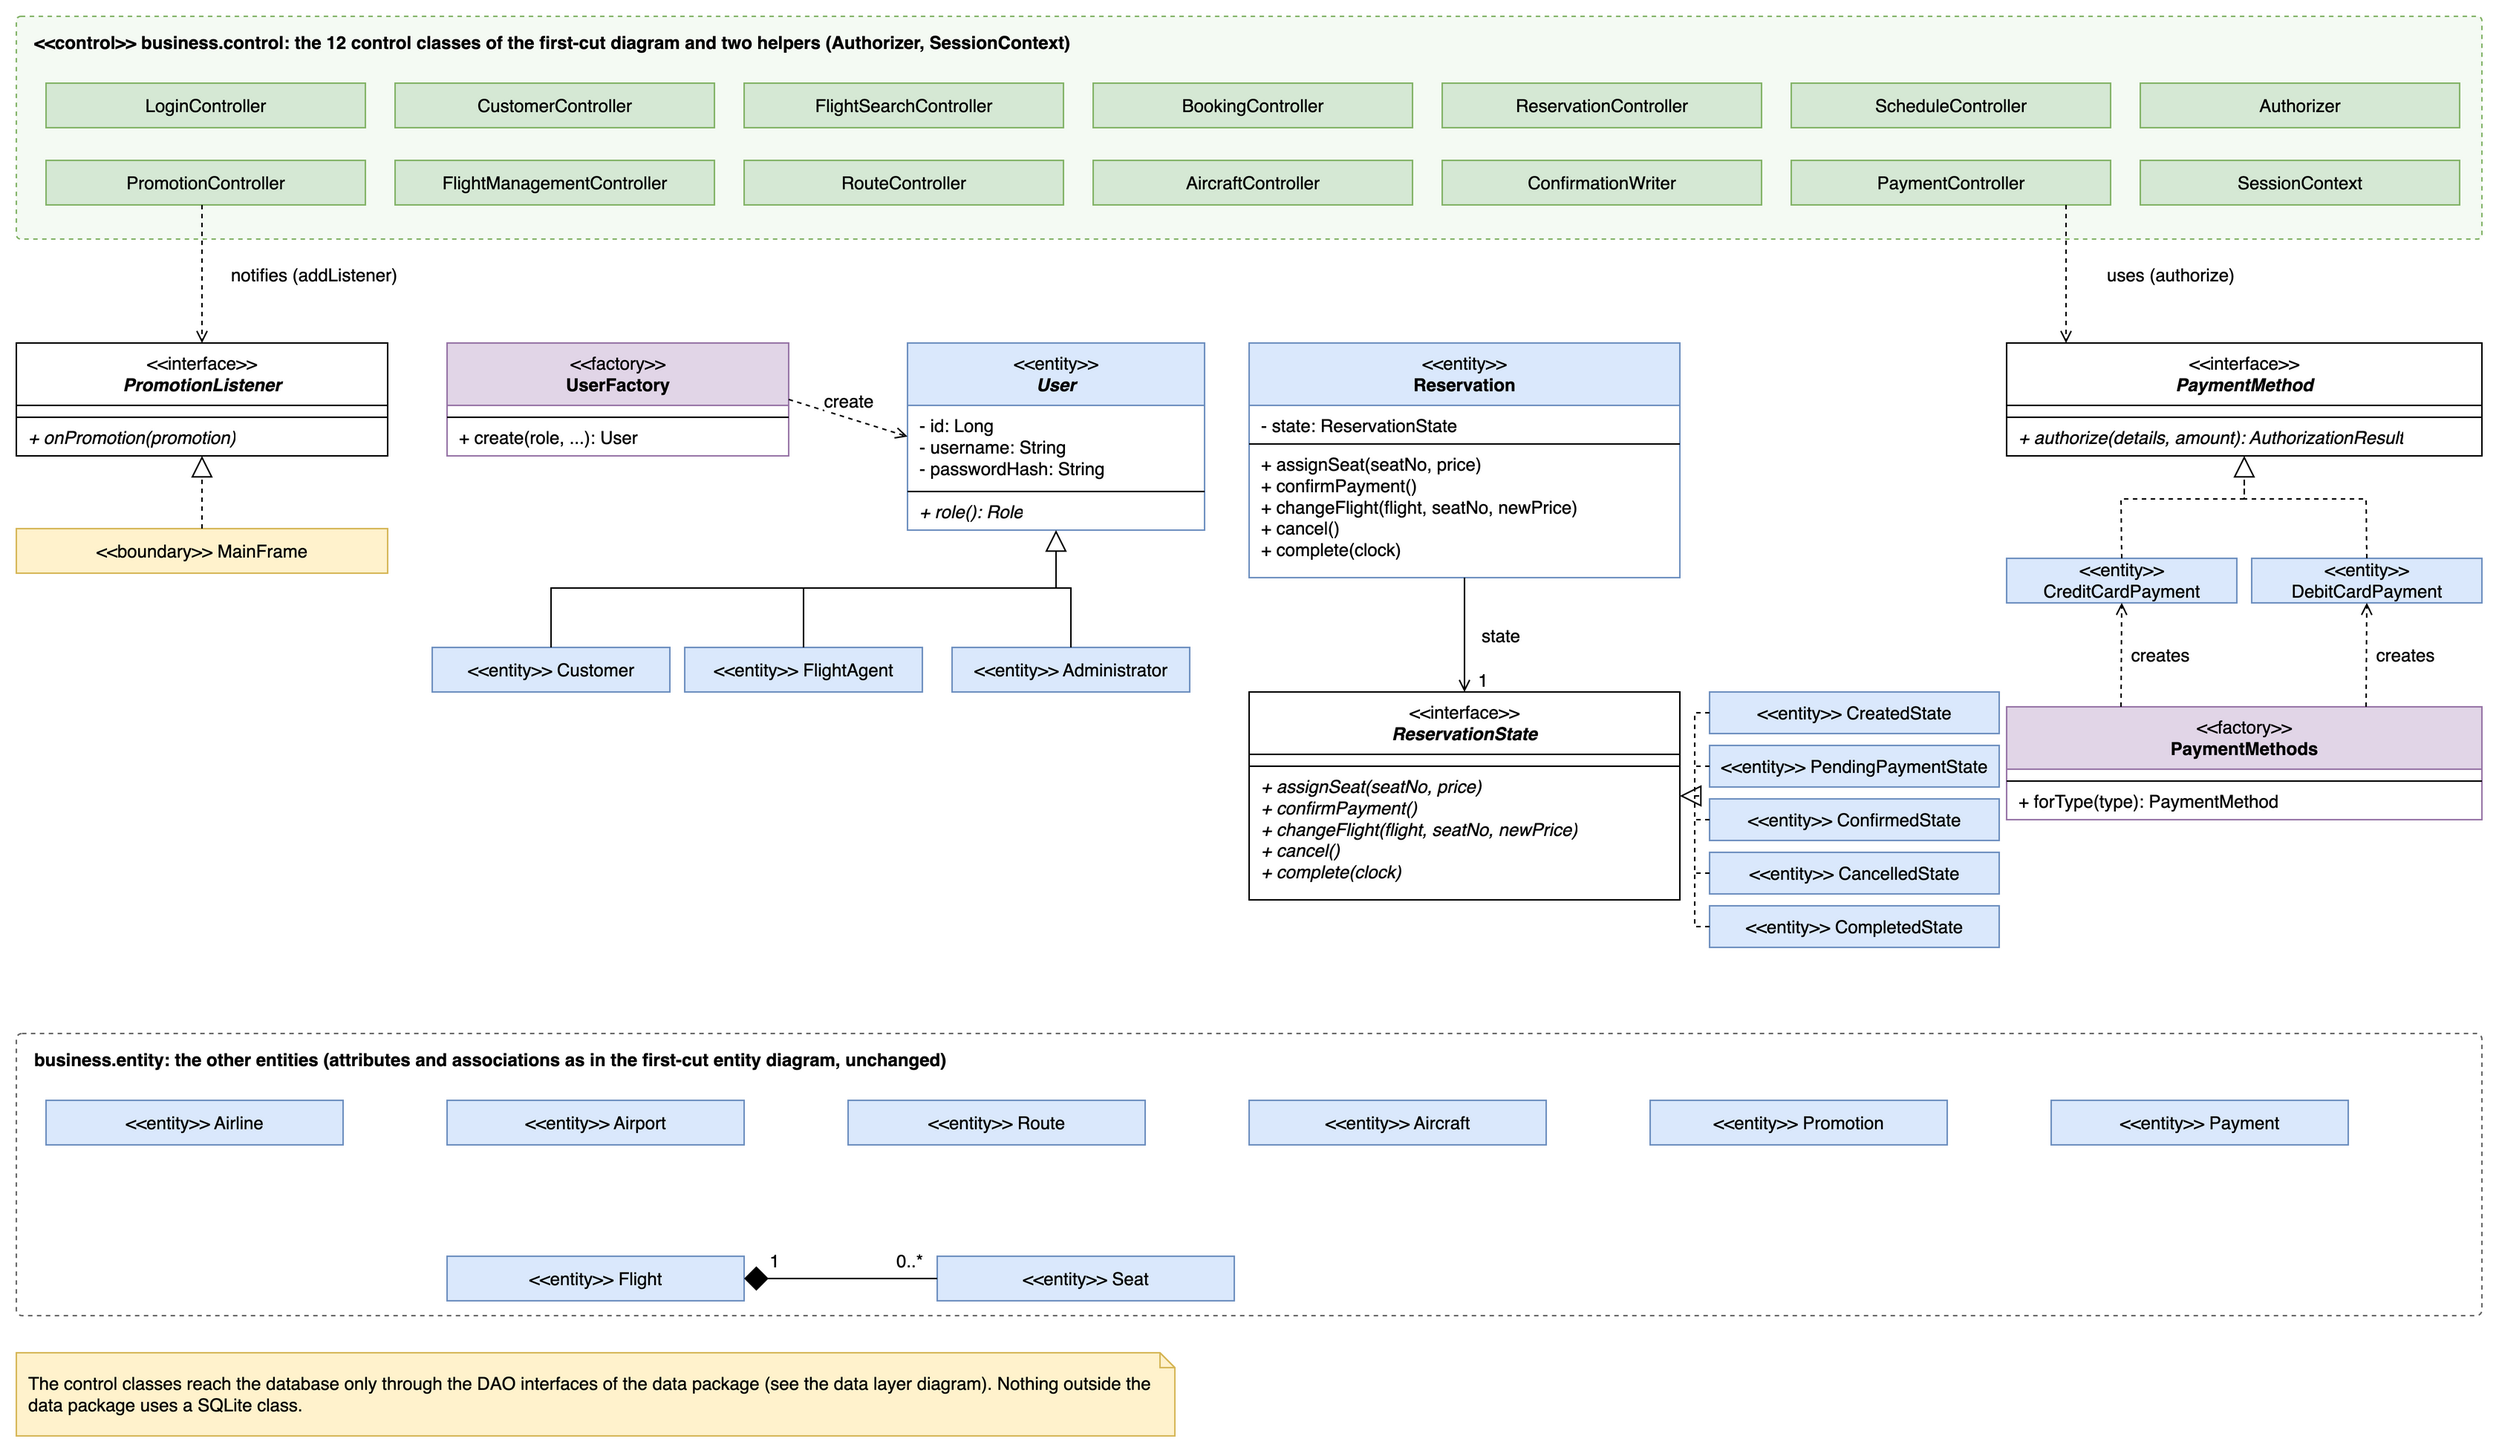
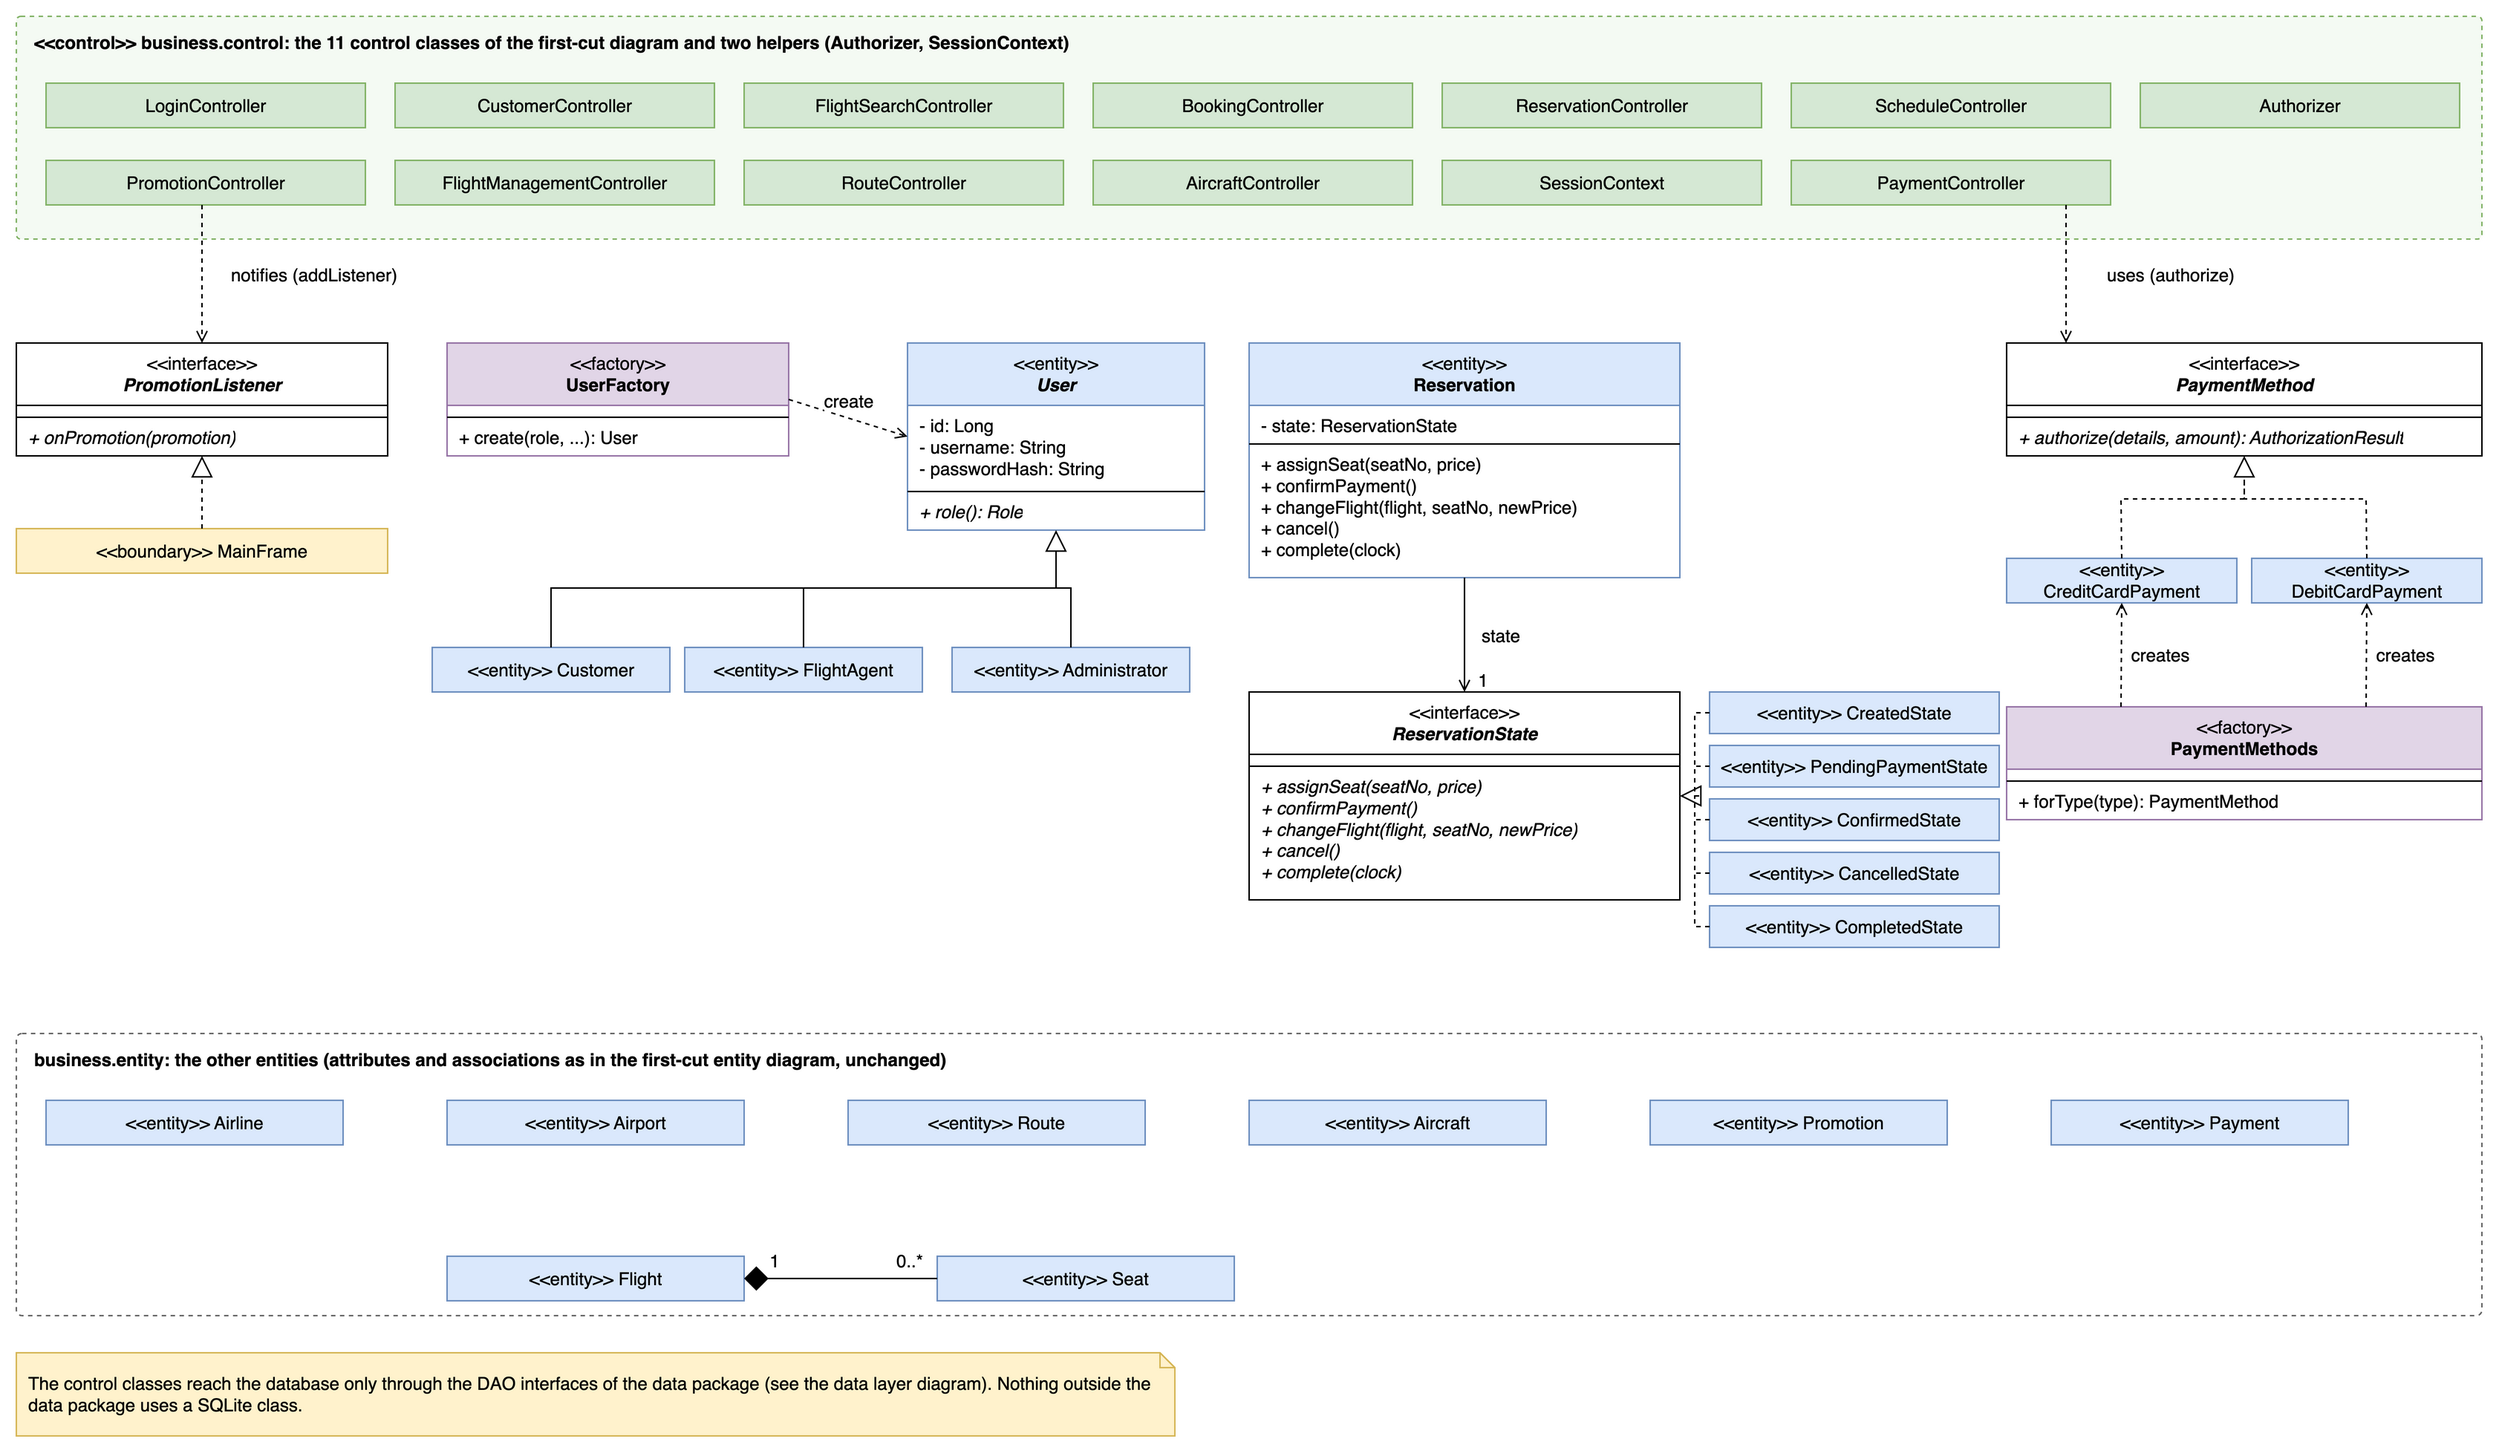
Move ConfirmationWriter to the data layer and add the seeder, hasher and entry point

Changed region(s): [[0.8425, 0.0935, 0.9985, 0.1559], [0.6241, 0.1247, 0.6553, 0.1559]]

diff --git a/docs/report/sections/f-class.tex b/docs/report/sections/f-class.tex
@@ -71,6 +71,14 @@ diagrams. The five state classes, the two payment classes and the twelve SQLite
 classes exist only to realize an interface. No class outside the data package
 uses a SQLite class.
 
+Three classes are added to the data layer and the utility package.
+ConfirmationWriter does file access, so the refinement moves it from the
+control classes to the data package; PaymentController calls it. DatabaseSeeder
+fills an empty database with demo data and hashes the demo passwords with
+\texttt{PasswordHasher} of the utility package, which the controllers also use
+for log in and registration. ChinookAir is the entry point and calls
+\texttt{AppContext}.
+
 \diagramland{12-class-refined}{Refined class diagram: business layer and design patterns}{fig:refinedbusiness}
 
 \diagramland{13-class-data}{Refined class diagram: data layer}{fig:refineddata}
